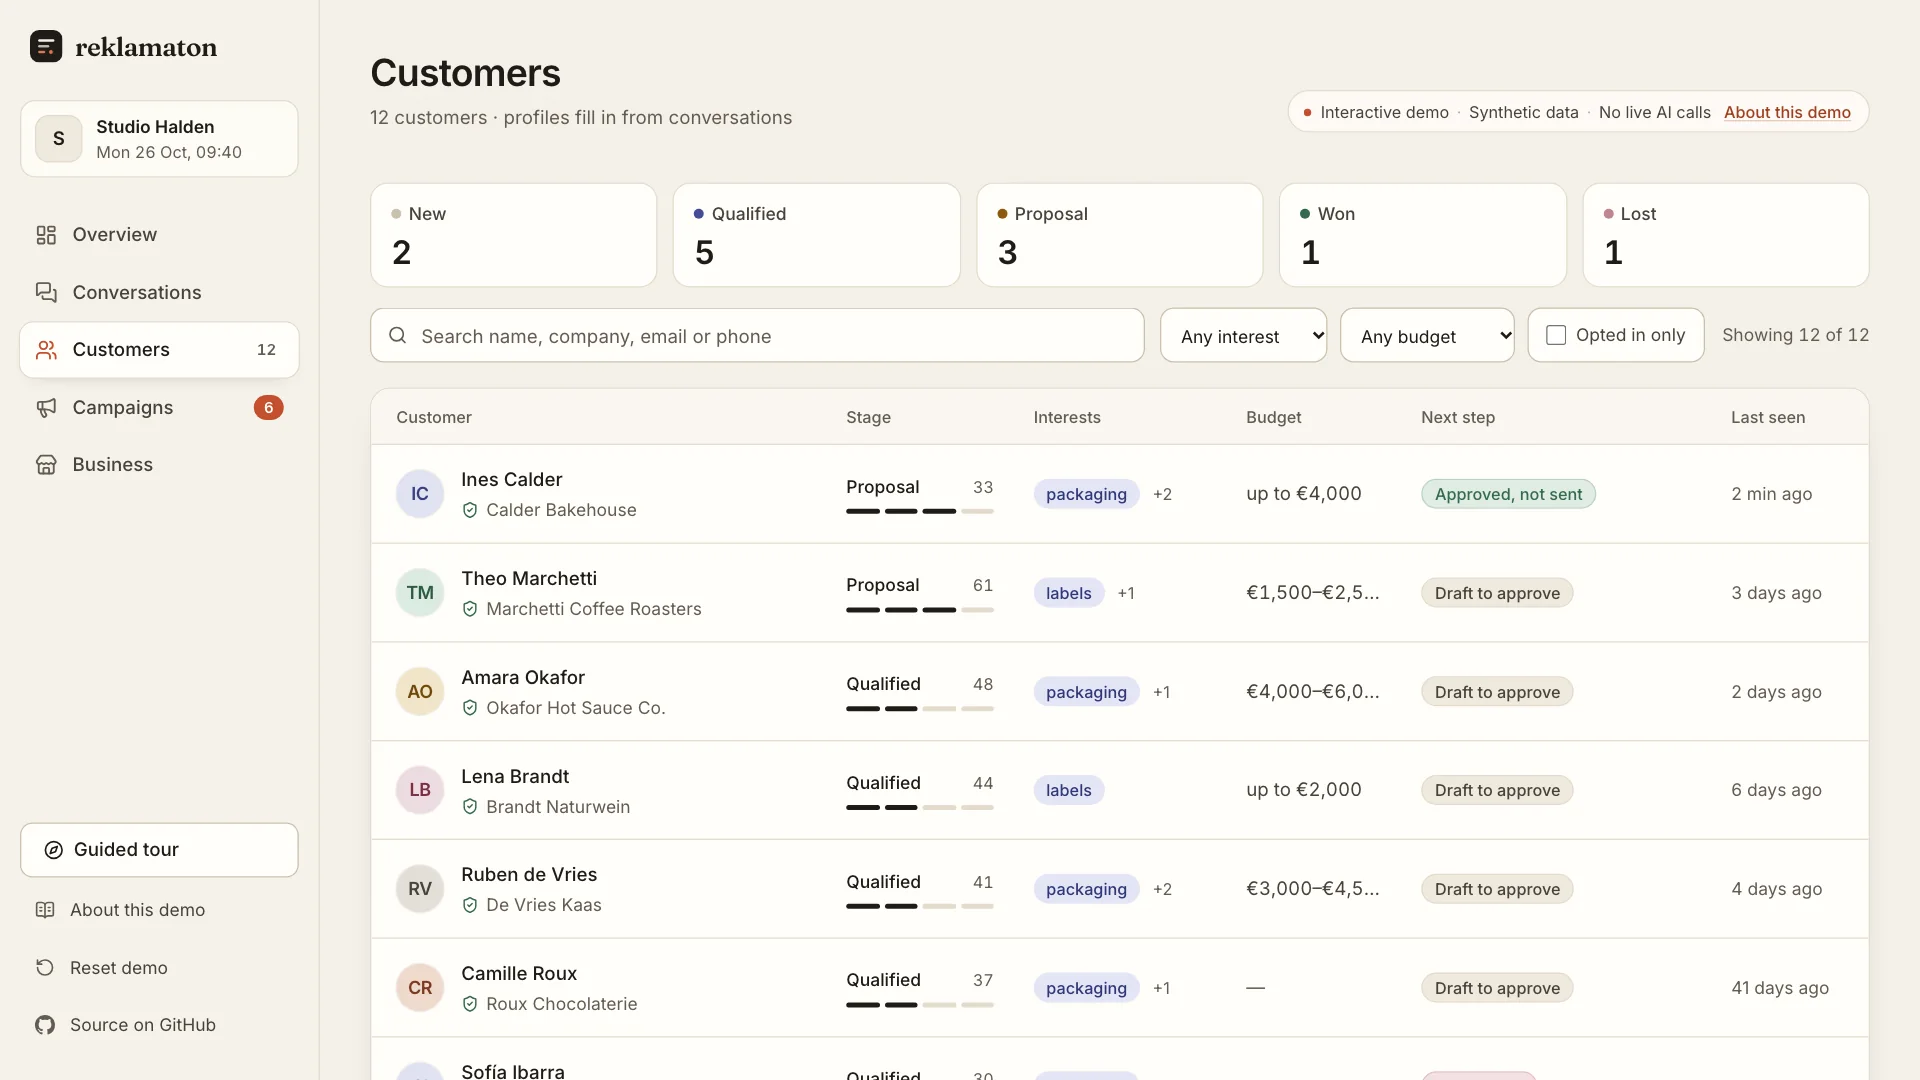
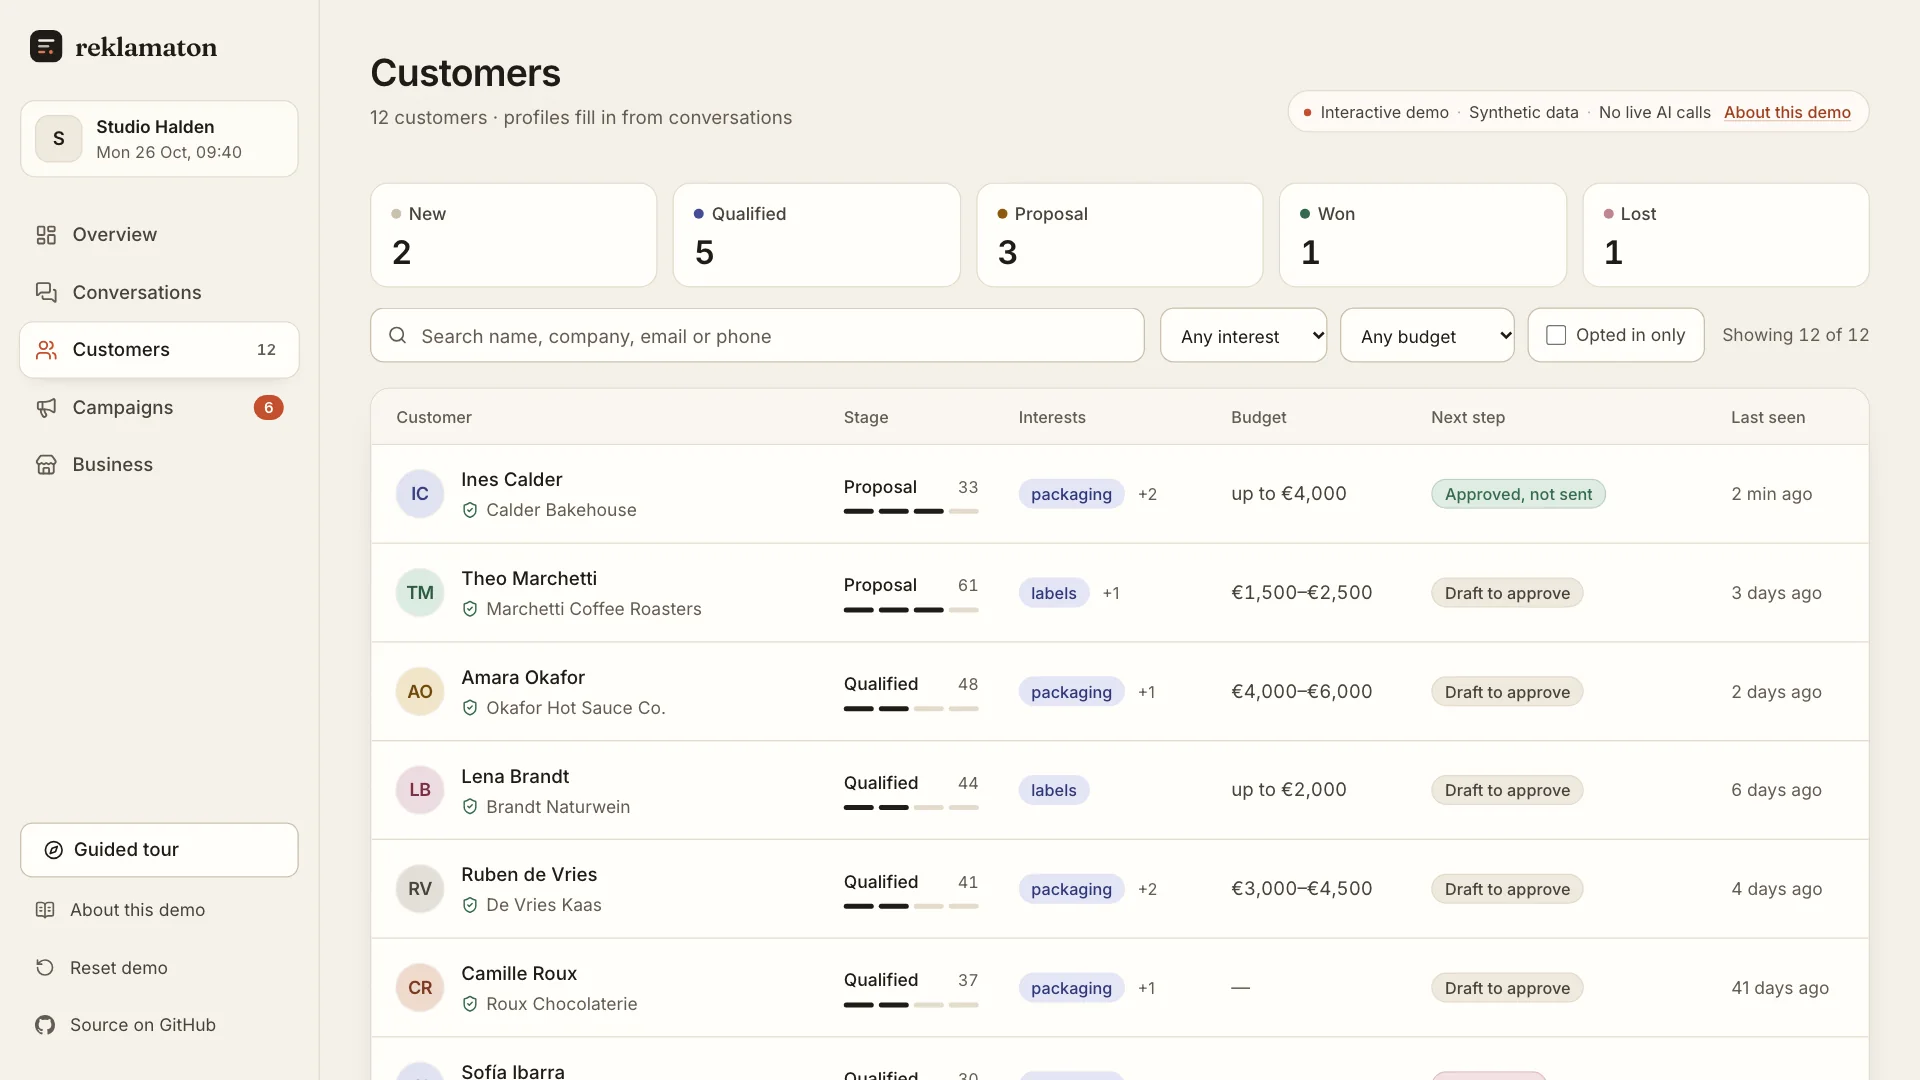
Showcase: fixes from the final visual review
- Customers: the budget column is wide enough for every range, so amounts are
  never cut; the stage column is a little narrower.
- Customer drawer on phones: the summary drops the avatar so stage, budget and
  consent fit on one line; consent badges never wrap.
- Campaigns from 1024 to 1279 px: a narrower audience column gives the draft
  more room.
- README customer and phone screenshots re-rendered.

diff --git a/showcase/src/app/pages/Customers.tsx b/showcase/src/app/pages/Customers.tsx
@@ -183,16 +183,16 @@ export function Customers() {
               <th scope="col" className="px-5 py-3 font-medium">
                 Customer
               </th>
-              <th scope="col" className="w-[150px] px-4 py-3 font-medium">
+              <th scope="col" className="w-[140px] px-4 py-3 font-medium">
                 Stage
               </th>
               <th scope="col" className="hidden w-[170px] px-4 py-3 font-medium xl:table-cell">
                 Interests
               </th>
-              <th scope="col" className="w-[140px] px-4 py-3 font-medium">
+              <th scope="col" className="w-[160px] px-4 py-3 font-medium">
                 Budget
               </th>
-              <th scope="col" className="w-[244px] px-4 py-3 font-medium">
+              <th scope="col" className="w-[236px] px-4 py-3 font-medium">
                 Next step
               </th>
               <th scope="col" className="hidden w-[130px] px-5 py-3 font-medium 2xl:table-cell">
@@ -262,7 +262,7 @@ export function Customers() {
                         {!p.interests.length && <span className="text-ink-3">—</span>}
                       </div>
                     </td>
-                    <td className="num truncate px-4 py-4 whitespace-nowrap text-ink-2">
+                    <td className="num px-4 py-4 whitespace-nowrap text-ink-2">
                       {p.budget_max == null && p.budget_min == null ? <span className="text-ink-3">—</span> : formatBudget(p.budget_min, p.budget_max)}
                     </td>
                     <td className="px-4 py-4">
@@ -342,8 +342,8 @@ function CustomerDetail({ customer }: { customer: Customer }) {
     <div className="flex flex-col pb-8">
       {/* Summary first: who, how far, how much, and whether we may write to them. */}
       <div className="flex items-center gap-5 border-b border-line bg-surface-2 px-6 py-5">
-        <Avatar id={customer.id} name={customer.name} size={52} />
-        <div className="grid min-w-0 flex-1 grid-cols-3 gap-4">
+        <Avatar id={customer.id} name={customer.name} size={52} className="max-sm:hidden" />
+        <div className="grid min-w-0 flex-1 grid-cols-3 gap-3 sm:gap-4">
           <div>
             <p className="type-meta">Stage</p>
             <p className="mt-1 text-ui font-semibold text-ink">{STAGE_META[p.lead_stage].label}</p>

diff --git a/showcase/src/components/Memory.tsx b/showcase/src/components/Memory.tsx
@@ -235,11 +235,11 @@ export function Memory({ customerId, onSource, activeField, variant = "panel", a
 
 export function Consent({ optedIn, className }: { optedIn: boolean; className?: string }) {
   return optedIn ? (
-    <span className={cx("inline-flex h-6 shrink-0 items-center gap-1 rounded-full bg-sage-soft px-2.5 text-meta font-medium text-sage", className)}>
+    <span className={cx("inline-flex h-6 shrink-0 items-center gap-1 rounded-full bg-sage-soft px-2.5 text-meta font-medium whitespace-nowrap text-sage", className)}>
       <ShieldCheck className="size-3.5" aria-hidden /> Opted in
     </span>
   ) : (
-    <span className={cx("inline-flex h-6 shrink-0 items-center gap-1 rounded-full bg-rose-soft px-2.5 text-meta font-medium text-rose", className)}>
+    <span className={cx("inline-flex h-6 shrink-0 items-center gap-1 rounded-full bg-rose-soft px-2.5 text-meta font-medium whitespace-nowrap text-rose", className)}>
       <ShieldOff className="size-3.5" aria-hidden /> No consent
     </span>
   )

diff --git a/showcase/src/app/pages/Campaigns.tsx b/showcase/src/app/pages/Campaigns.tsx
@@ -130,7 +130,7 @@ function CampaignView({ campaign }: { campaign: Campaign }) {
         })}
       </ol>
 
-      <div className="mt-8 grid gap-6 lg:grid-cols-[minmax(0,340px)_minmax(0,1fr)] xl:grid-cols-[minmax(0,360px)_minmax(0,1fr)] xl:gap-8">
+      <div className="mt-8 grid gap-6 lg:grid-cols-[minmax(0,300px)_minmax(0,1fr)] xl:grid-cols-[minmax(0,340px)_minmax(0,1fr)] xl:gap-8 2xl:grid-cols-[minmax(0,360px)_minmax(0,1fr)]">
         <AudiencePanel campaign={campaign} onPick={(customerId) => setPicked(messages.find((m) => m.customer_id === customerId)?.id ?? null)} />
 
         <section id="review" className="surface @container flex min-w-0 scroll-mt-6 flex-col" data-testid="outbox" aria-label="Drafts">
